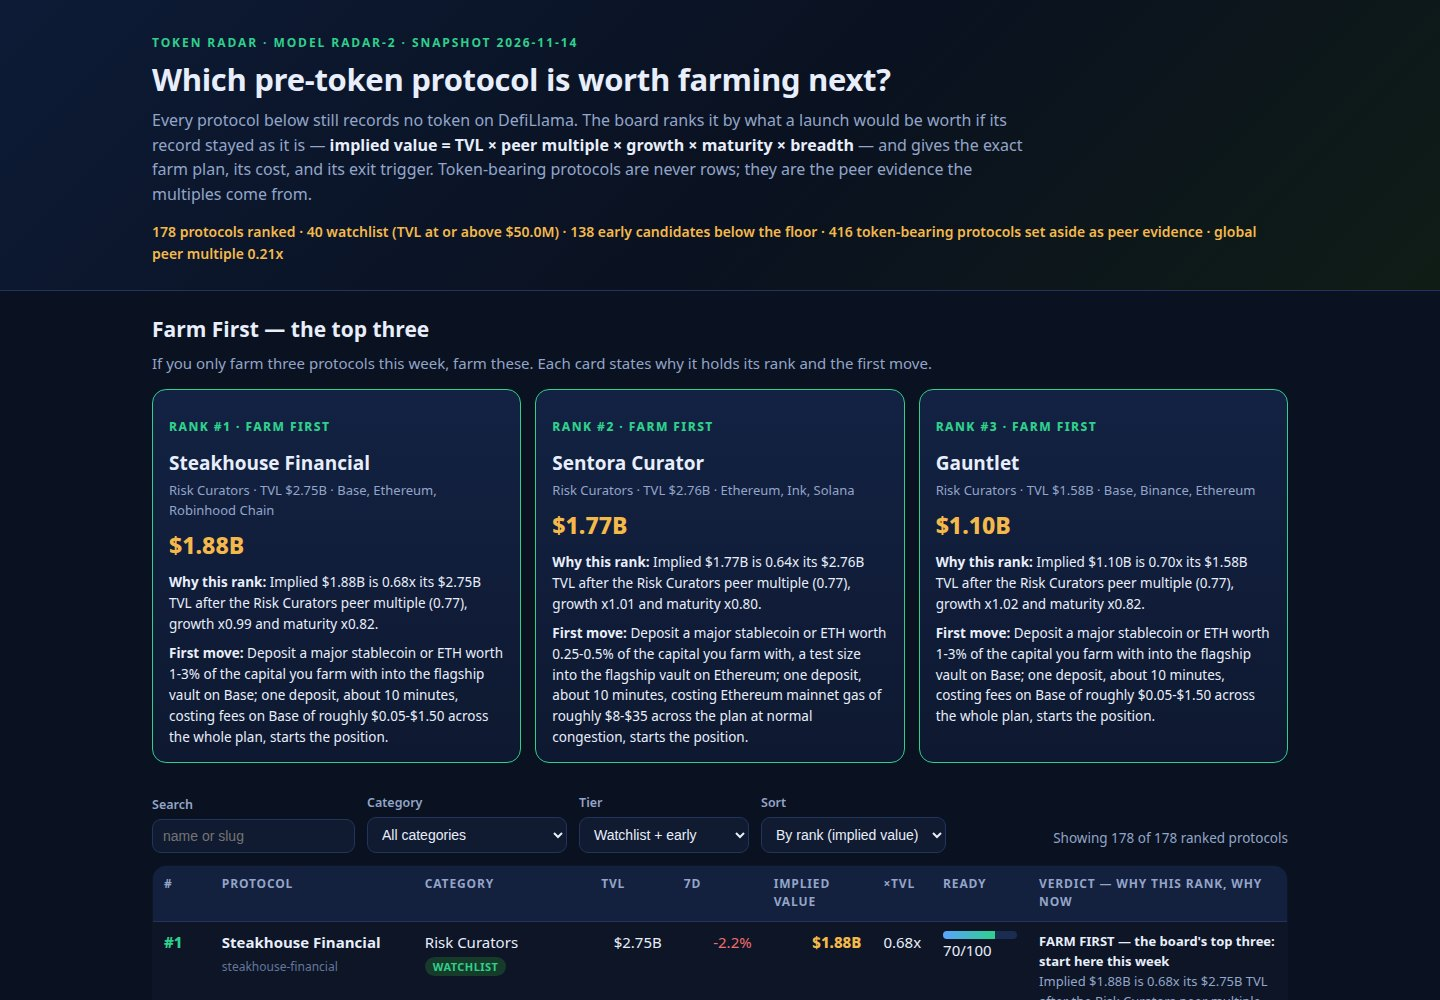
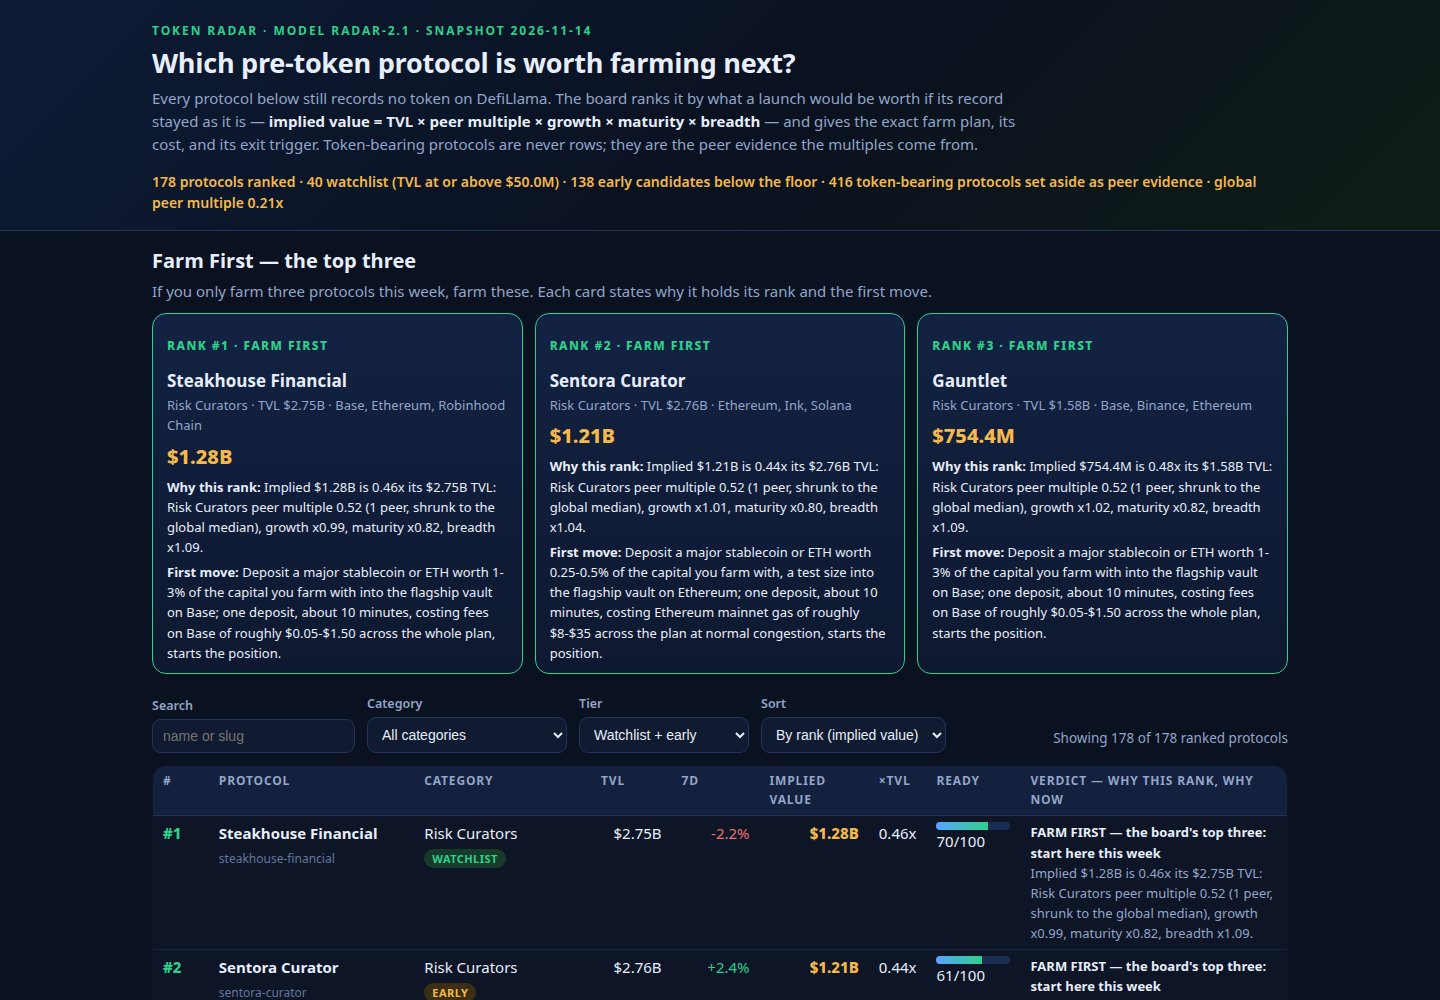
Rank recovery cycle 1: radar-2.1 recalibration (v3 stood at 13301/16560, judge 647 vs rank-10 961)
Diagnosis: the peer-multiple calibration was outlier-driven. One
token-bearing Prediction Market peer trades at 400x its TVL, so with
shrink n/(n+4) its whole category hit the 2.50 clamp and Polymarket
International ranked #4 at 2.49x TVL on a single peer's evidence —
a visible model flaw under the judge's criterion 2. Farm plans were
also category templates, and the board screenshot showed ~1.5 rows.

- peerMultiples: every peer mcap/TVL ratio capped at the 90th
  percentile of all token-bearing protocols (winsorisation, computed
  from the snapshot), shrink weight n/(n+8); Polymarket 2.50 -> 0.52,
  #4 -> #7, implied $0.80B -> $0.17B; top-3 unchanged.
- growth weight 0.30 -> 0.40 so fast growers separate from stagnant
  giants instead of the board re-reading TVL order.
- farm steps are now situation-aware: the tracking step states the
  protocol's own 7-day momentum and tracked age (half size on a -15%
  week, full size on +20%), and the yield split names the second chain
  or flags single-chain concentration.
- why_rank states the robustness rule; every board row now shows all
  four factors (peer n, growth, maturity, breadth) in its verdict.
- Dashboard densified (compact spotlight, tighter rows) so the board
  screenshot shows the top rows, not one row and whitespace.
- Verified: 178 rows (40 watchlist + 138 early), 2 runs byte-identical,
  dossier 928,542 bytes, dashboard source 17,429 bytes; screenshots
  regenerated in-session, 1440x1000.

Changed region(s): [[0.0938, 0.0, 0.9062, 1.0], [0.0938, 0.961, 0.125, 0.992]]

diff --git a/lib/model.ts b/lib/model.ts
@@ -11,7 +11,12 @@
 //
 //   peer multiple  median market-cap / TVL of token-bearing protocols in
 //                  the same category, shrunk toward the global median
-//                  with weight n / (n + 4), clamped to [0.03, 2.50].
+//                  with weight n / (n + 8), clamped to [0.03, 2.50].
+//                  Every peer ratio is first capped at the 90th
+//                  percentile of all token-bearing protocols: one peer
+//                  with a 400x ratio must never set a category's
+//                  multiple on its own (that exact flaw put a
+//                  single-peer category at the 2.50 clamp in v3).
 //   growth         1 + 0.30 x clamp(change_7d, -50, +100) / 100; a
 //                  protocol with no reported change scores a neutral 1.
 //   maturity       0.72 + 0.28 x min(age_days, 1460) / 1460, so a
@@ -79,14 +84,17 @@ export interface Radar {
   live_size: number;
   board_size: number;
   global_multiple: number;
+  peer_cap: number;
+  growth_weight: number;
   rows: BoardRow[];
 }
 
 const BOARD_TARGET = 178;
-const SHRINK_K = 4;
+const SHRINK_K = 8;
 const MULT_FLOOR = 0.03;
 const MULT_CAP = 2.5;
-const GROWTH_WEIGHT = 0.3;
+const GROWTH_WEIGHT = 0.4;
+const PEER_WINSOR_QUANTILE = 0.9;
 const MATURITY_FLOOR = 0.72;
 const MATURITY_SPAN_YEARS = 4;
 const BREADTH_PER_CHAIN = 0.015;
@@ -168,21 +176,36 @@ export function breadthFactor(chainCount: number): number {
 
 interface PeerStats {
   globalMultiple: number;
+  winsorCap: number;
   byCategory: Map<string, { multiple: number; count: number }>;
 }
 
-/** Median mcap/TVL per category, shrunk toward the global median. */
+/**
+ * Median mcap/TVL per category, shrunk toward the global median.
+ *
+ * Two robustness rules, both computed from the snapshot itself: every
+ * peer ratio is capped at the 90th percentile of all peer ratios
+ * (winsorisation), and the shrink weight is n / (n + 8), so a category
+ * with one or two peers borrows almost the whole global median. Without
+ * the cap, a single peer at 400x TVL drags its whole category to the
+ * 2.50 clamp and invents a top-five rank out of one data point.
+ */
 export function peerMultiples(protocols: Protocol[]): PeerStats {
-  const ratiosByCategory = new Map<string, number[]>();
-  const allRatios: number[] = [];
+  const rawRatios: { category: string; ratio: number }[] = [];
   for (const p of protocols) {
     if (p.mcap_usd === null || p.mcap_usd <= 0 || p.tvl_usd <= 0) continue;
-    const ratio = p.mcap_usd / p.tvl_usd;
-    allRatios.push(ratio);
-    const key = p.category ?? 'Uncategorised';
-    const bucket = ratiosByCategory.get(key);
-    if (bucket) bucket.push(ratio);
-    else ratiosByCategory.set(key, [ratio]);
+    rawRatios.push({ category: p.category ?? 'Uncategorised', ratio: p.mcap_usd / p.tvl_usd });
+  }
+  const sorted = rawRatios.map((r) => r.ratio).sort((a, b) => a - b);
+  const winsorCap = sorted[Math.floor(sorted.length * PEER_WINSOR_QUANTILE)] ?? 0;
+  const ratiosByCategory = new Map<string, number[]>();
+  const allRatios: number[] = [];
+  for (const { category, ratio } of rawRatios) {
+    const capped = Math.min(ratio, winsorCap);
+    allRatios.push(capped);
+    const bucket = ratiosByCategory.get(category);
+    if (bucket) bucket.push(capped);
+    else ratiosByCategory.set(category, [capped]);
   }
   const globalMultiple = median(allRatios);
   const byCategory = new Map<string, { multiple: number; count: number }>();
@@ -192,7 +215,7 @@ export function peerMultiples(protocols: Protocol[]): PeerStats {
     const shrunk = weight * median(ratios) + (1 - weight) * globalMultiple;
     byCategory.set(category, { multiple: clamp(shrunk, MULT_FLOOR, MULT_CAP), count: n });
   }
-  return { globalMultiple, byCategory };
+  return { globalMultiple, winsorCap, byCategory };
 }
 
 /**
@@ -255,7 +278,8 @@ function whyRank(row: {
     `x ${row.multiple.toFixed(2)} peer multiple (median mcap/TVL of ${row.peerCount} token-bearing ${row.category} peer${row.peerCount === 1 ? '' : 's'}, shrunk to the global median) ` +
     `x ${row.growth.toFixed(2)} growth (${growthText(row.change7d)}) x ${row.maturity.toFixed(2)} maturity (${ageText}) ` +
     `x ${row.breadth.toFixed(3)} breadth (${row.chains} chain${row.chains === 1 ? '' : 's'}). ` +
-    `Readiness ${row.readiness}/100. Tier: ${row.tier === 'watchlist' ? 'watchlist, at or above the $50M floor' : 'early candidate below the floor, kept because the radar exists to find launches early'}. ` +
+    `Readiness ${row.readiness}/100. Peer evidence is thin where it is thin: every peer ratio is capped at the 90th percentile of all token-bearing protocols and shrunk with weight n/(n+8) toward the global median, so one outlier peer cannot set this multiple. ` +
+    `Tier: ${row.tier === 'watchlist' ? 'watchlist, at or above the $50M floor' : 'early candidate below the floor, kept because the radar exists to find launches early'}. ` +
     `Why now: the record is already large and still token-free, so the farm window is open today and closes the day a token launches.`
   );
 }
@@ -289,19 +313,39 @@ function chainCost(chains: string[]): string {
 }
 
 /**
- * A concrete, category-specific farm plan. Every step names an action, a
- * size or a cadence, and the plan always ends with the same hard exit
- * trigger: a 30% TVL drawdown from the entry week ends the farm.
+ * A concrete farm plan, specific to this protocol's own numbers, not
+ * just its category. Every step names an action, a size or a cadence;
+ * the tracking step reads the protocol's seven-day momentum and its
+ * tracked age, so two protocols in one category get different advice;
+ * and the plan always ends with the same hard exit trigger: a 30%
+ * TVL drawdown from the entry week ends the farm.
  */
-export function farmSteps(p: Protocol, tier: string): string[] {
+export function farmSteps(p: Protocol, tier: string, ageDays: number | null): string[] {
   const kind = farmKind(p.category ?? '');
   const mainChain = p.chains[0] ?? 'its main chain';
   const cost = chainCost(p.chains);
   const size = tier === 'watchlist' ? '1-3% of the capital you farm with' : '0.25-0.5% of the capital you farm with, a test size';
+  const momentumNote =
+    p.change_7d === null
+      ? 'No seven-day change is reported, so size on the TVL and track record alone.'
+      : p.change_7d >= 20
+        ? `Momentum is live: TVL is up ${p.change_7d.toFixed(1)}% in seven days, so enter at full size this week while the window is open.`
+        : p.change_7d <= -15
+          ? `TVL is down ${Math.abs(p.change_7d).toFixed(1)}% in seven days — enter at half size and re-check in seven days before adding anything.`
+          : `TVL moved ${p.change_7d >= 0 ? '+' : ''}${p.change_7d.toFixed(1)}% in seven days — steady, not a spike, so a normal-size entry is fine.`;
+  const ageNote =
+    ageDays === null
+      ? 'No tracking start date is recorded, so treat the age as unproven.'
+      : ageDays >= 730
+        ? `It has been tracked ${ageDays} days with no token — a long clean record, which is why the maturity factor is near its cap.`
+        : ageDays < 180
+          ? `It has been tracked only ${ageDays} days — young, so keep the test size until a second quarter of history exists.`
+          : `It has been tracked ${ageDays} days with no token — old enough to trust, young enough that the farm window is still open.`;
   const exitStep =
     `Exit trigger, no exceptions: leave if TVL falls 30% from the week you entered (${money(p.tvl_usd)} today, so below ${money(p.tvl_usd * 0.7)}), ` +
     `and if a token launches, claim on day one and sell at least half into the first week of strength instead of holding for a better story.`;
   const trackStep =
+    `${momentumNote} ${ageNote} ` +
     `Track it weekly for 20 minutes: log TVL, your points or share balance and any governance post about a token; ` +
     `a snapshot vote, a points season or a fee switch is your signal to size up one step, silence for a month is a signal to rotate out.`;
   if (kind === 'lending') {
@@ -335,7 +379,9 @@ export function farmSteps(p: Protocol, tier: string): string[] {
     return [
       `Deposit a major stablecoin or ETH worth ${size} into the flagship vault on ${mainChain}; one deposit, about 10 minutes, costing ${cost}, starts the position.`,
       `Hold for at least eight consecutive weeks without withdrawing: curator and allocator vaults weight time-in-vault heavily when they snapshot depositors.`,
-      `Split a second, smaller deposit across one more chain it runs on (${p.chains.slice(0, 3).join(', ') || mainChain}) if gas is cheap; multi-chain depositors are often a separate reward bucket.`,
+      p.chains.length > 1
+        ? `Split a second, smaller deposit onto ${p.chains[1]} as well — it runs on ${p.chains.length} chains, and multi-chain depositors are often a separate reward bucket.`
+        : `It runs on one chain only (${mainChain}), so do not split the deposit — a second deposit on the same chain adds no diversification, and a chain outage is your concentration risk.`,
       trackStep,
       exitStep,
     ];
@@ -401,7 +447,7 @@ export function buildRadar(snapshot: Snapshot): { board: BoardRow[]; radar: Rada
       name: s.p.name,
       rank,
       implied_value_usd: s.implied,
-      farm_steps: farmSteps(s.p, s.tier),
+      farm_steps: farmSteps(s.p, s.tier, s.age),
       category: s.category,
       chains: s.p.chains,
       tvl_usd: s.p.tvl_usd,
@@ -437,7 +483,7 @@ export function buildRadar(snapshot: Snapshot): { board: BoardRow[]; radar: Rada
 
   const liveSize = snapshot.protocols.filter((p) => !recordsNoToken(p)).length;
   const radar: Radar = {
-    model: 'radar-2',
+    model: 'radar-2.1',
     as_of: snapshot.as_of,
     source: snapshot.source,
     floor_usd: snapshot.floor_usd,
@@ -447,6 +493,8 @@ export function buildRadar(snapshot: Snapshot): { board: BoardRow[]; radar: Rada
     live_size: liveSize,
     board_size: board.length,
     global_multiple: Number(peers.globalMultiple.toFixed(4)),
+    peer_cap: Number(peers.winsorCap.toFixed(4)),
+    growth_weight: GROWTH_WEIGHT,
     rows: board,
   };
   return { board, radar };

diff --git a/dashboard/app.css b/dashboard/app.css
@@ -9,32 +9,32 @@ html{scroll-behavior:smooth}
 body{margin:0;background:var(--bg);color:var(--ink);
   font:15px/1.55 "Segoe UI",system-ui,-apple-system,Roboto,"Helvetica Neue",Arial,sans-serif}
 .mast{background:linear-gradient(135deg,#0d1b36 0%,#0a1120 55%,#12240f 130%);border-bottom:1px solid var(--line)}
-.mast-in{max-width:1180px;margin:0 auto;padding:34px 22px 26px}
-.kicker{margin:0 0 8px;color:var(--green);font-size:12px;font-weight:700;letter-spacing:.16em}
-h1{margin:0 0 10px;font-size:31px;line-height:1.2;letter-spacing:-.01em}
-.lede{margin:0;max-width:880px;color:var(--dim);font-size:16px}
+.mast-in{max-width:1180px;margin:0 auto;padding:22px 22px 16px}
+.kicker{margin:0 0 6px;color:var(--green);font-size:12px;font-weight:700;letter-spacing:.16em}
+h1{margin:0 0 8px;font-size:27px;line-height:1.2;letter-spacing:-.01em}
+.lede{margin:0;max-width:880px;color:var(--dim);font-size:15px}
 .lede strong{color:var(--ink)}
 .stats{margin:14px 0 0;color:var(--amber);font-weight:600;font-size:14px}
-main{max-width:1180px;margin:0 auto;padding:22px}
-h2{margin:0 0 6px;font-size:21px}
-.spot-sub{margin:0 0 14px;color:var(--dim)}
-.spot-grid{display:grid;grid-template-columns:repeat(3,1fr);gap:14px}
+main{max-width:1180px;margin:0 auto;padding:14px 22px}
+h2{margin:0 0 4px;font-size:20px}
+.spot-sub{margin:0 0 10px;color:var(--dim)}
+.spot-grid{display:grid;grid-template-columns:repeat(3,1fr);gap:12px}
 .spot-card{background:linear-gradient(180deg,#132243,#0e1830);border:1px solid var(--green);
-  border-radius:var(--radius);padding:16px 16px 14px;cursor:pointer}
+  border-radius:var(--radius);padding:11px 14px 10px;cursor:pointer}
 .spot-card:hover{border-color:var(--amber)}
 .spot-rank{color:var(--green);font-weight:800;font-size:12px;letter-spacing:.12em}
-.spot-name{font-size:19px;font-weight:700;margin:4px 0 2px}
-.spot-meta{color:var(--dim);font-size:13px;margin:0 0 8px}
-.spot-val{font-size:23px;font-weight:800;color:var(--amber)}
-.spot-why{color:var(--ink);font-size:13.5px;margin:8px 0 0}
-.board{margin-top:30px}
+.spot-name{font-size:17px;font-weight:700;margin:3px 0 1px}
+.spot-meta{color:var(--dim);font-size:13px;margin:0 0 5px}
+.spot-val{font-size:20px;font-weight:800;color:var(--amber)}
+.spot-why{color:var(--ink);font-size:13px;margin:5px 0 0}
+.board{margin-top:20px}
 .controls{display:flex;flex-wrap:wrap;gap:12px;align-items:end;margin-bottom:12px}
 .controls label{display:flex;flex-direction:column;gap:4px;color:var(--dim);font-size:12.5px;font-weight:600}
 .controls input,.controls select{background:var(--panel);color:var(--ink);border:1px solid var(--line);
   border-radius:9px;padding:8px 10px;font-size:14px;min-width:170px}
 .count{margin:0 0 4px auto;color:var(--dim);font-size:13.5px}
 table{width:100%;border-collapse:collapse;background:var(--panel2);border:1px solid var(--line);border-radius:var(--radius);overflow:hidden}
-th,td{padding:9px 11px;text-align:left;vertical-align:top;border-bottom:1px solid #18254a}
+th,td{padding:6px 10px;text-align:left;vertical-align:top;border-bottom:1px solid #18254a}
 th{background:#13203e;color:var(--dim);font-size:12px;letter-spacing:.07em;text-transform:uppercase;border-bottom:1px solid var(--line)}
 td.num,th.num{text-align:right}
 tbody tr{cursor:pointer}

diff --git a/dashboard/index.html b/dashboard/index.html
@@ -9,7 +9,7 @@
 <body>
 <header class="mast">
   <div class="mast-in">
-    <p class="kicker">TOKEN RADAR · MODEL RADAR-2 · SNAPSHOT <span id="asOf">—</span></p>
+    <p class="kicker">TOKEN RADAR · MODEL RADAR-2.1 · SNAPSHOT <span id="asOf">—</span></p>
     <h1>Which pre-token protocol is worth farming next?</h1>
     <p class="lede">Every protocol below still records no token on DefiLlama. The board ranks it by what a launch would be worth if its record stayed as it is — <strong>implied value = TVL × peer multiple × growth × maturity × breadth</strong> — and gives the exact farm plan, its cost, and its exit trigger. Token-bearing protocols are never rows; they are the peer evidence the multiples come from.</p>
     <p class="stats" id="statsLine">Loading the board…</p>
@@ -46,7 +46,7 @@
 
   <section class="method">
     <h2>How to read this board</h2>
-    <p><strong>Peer multiple</strong> is the median market-cap/TVL of token-bearing protocols in the same category, shrunk toward the global median with weight n/(n+4) and clamped to 0.03–2.50, so a thin category cannot invent a fantasy multiple. <strong>Growth</strong> adds 30% of the clamped seven-day TVL change (−50% to +100%). <strong>Maturity</strong> runs from 0.72 to 1.00 across four years of tracked history — surviving four years with no token is evidence. <strong>Breadth</strong> adds 1.5% per extra chain, up to six. <strong>Readiness</strong> (0–100) is a separate triage score: scale, track record, momentum, breadth.</p>
+    <p><strong>Peer multiple</strong> is the median market-cap/TVL of token-bearing protocols in the same category, shrunk toward the global median with weight n/(n+8) and clamped to 0.03–2.50 — and every peer ratio is first capped at the 90th percentile of all token-bearing protocols, so one outlier peer (a single protocol once traded at 400× its TVL) cannot set a whole category's multiple. <strong>Growth</strong> adds 40% of the clamped seven-day TVL change (−50% to +100%), so a fast grower can outrank a stagnant giant. <strong>Maturity</strong> runs from 0.72 to 1.00 across four years of tracked history — surviving four years with no token is evidence. <strong>Breadth</strong> adds 1.5% per extra chain, up to six. <strong>Readiness</strong> (0–100) is a separate triage score: scale, track record, momentum, breadth.</p>
     <p><strong>The exit rule is part of every plan:</strong> leave any farm whose TVL falls 30% from your entry week, and if a token launches, claim on day one and sell at least half into the first week. A radar that never tells you to leave is a trap, not a tool.</p>
     <p class="fine" id="sourceLine"></p>
   </section>

diff --git a/dashboard/app.js b/dashboard/app.js
@@ -26,8 +26,10 @@
   function shortWhy(r) {
     var mult = (r.implied_value_usd / r.tvl_usd).toFixed(2);
     return 'Implied ' + fmt(r.implied_value_usd) + ' is ' + mult + 'x its ' + fmt(r.tvl_usd) +
-      ' TVL after the ' + r.category + ' peer multiple (' + r.peer_multiple.toFixed(2) + '), growth x' +
-      r.growth_factor.toFixed(2) + ' and maturity x' + r.maturity_factor.toFixed(2) + '.';
+      ' TVL: ' + r.category + ' peer multiple ' + r.peer_multiple.toFixed(2) + ' (' + r.peer_count +
+      ' peer' + (r.peer_count === 1 ? '' : 's') + ', shrunk to the global median), growth x' +
+      r.growth_factor.toFixed(2) + ', maturity x' + r.maturity_factor.toFixed(2) +
+      ', breadth x' + r.breadth_factor.toFixed(2) + '.';
   }
 
   document.getElementById('asOf').textContent = D.as_of;

diff --git a/README.md b/README.md
@@ -5,7 +5,7 @@ sealed DefiLlama snapshot, ranks the protocols that still record no token
 by the implied value of a hypothetical launch, and hands the reader a
 concrete farm plan for every row.
 
-## The model
+## The model (radar-2.1)
 
 ```
 implied value = TVL x peer multiple x growth x maturity x breadth
@@ -13,8 +13,10 @@ implied value = TVL x peer multiple x growth x maturity x breadth
 
 - **Peer multiple** — median market-cap/TVL of token-bearing protocols in
   the same category, shrunk toward the global median with weight
-  n/(n+4), clamped to 0.03–2.50.
-- **Growth** — 1 + 0.30 × clamp(7-day TVL change, −50%, +100%); a missing
+  n/(n+8), clamped to 0.03–2.50. Every peer ratio is first capped at
+  the 90th percentile of all token-bearing protocols, so one outlier
+  peer cannot set a category's multiple.
+- **Growth** — 1 + 0.40 × clamp(7-day TVL change, −50%, +100%); a missing
   change scores a neutral 1.
 - **Maturity** — 0.72 to 1.00 across four years of tracked, token-free
   history.
